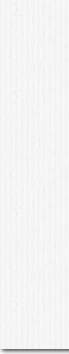
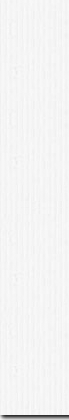
homepage :: modification de la taille de portlets offre // modification du background de la zone offre

Changed region(s): [[0.0, 0.9633, 1.0, 1.0]]

diff --git a/gites/theme/static/css/style.css b/gites/theme/static/css/style.css
@@ -643,7 +643,7 @@ border-right:none;
 /*** OFFRES PACKAGES ***/
 div#zone-offres{
 position:relative;
-height:405px;
+height:420px;
 background:url(../images/bgblancligne.png);
 background-position:0px 53px;
 box-shadow:0px 5px 8px #000;
@@ -683,7 +683,7 @@ div#zone-offres div#zone-allo-chambre-hote,
 div#zone-offres div#zone-la-boutique{
 float:left;
 width:233px;
-height:295px;
+height:315px;
 background-color:transparent;
 background:url(../images/bg-etiquette.png);
 background-position:2px -5px;
